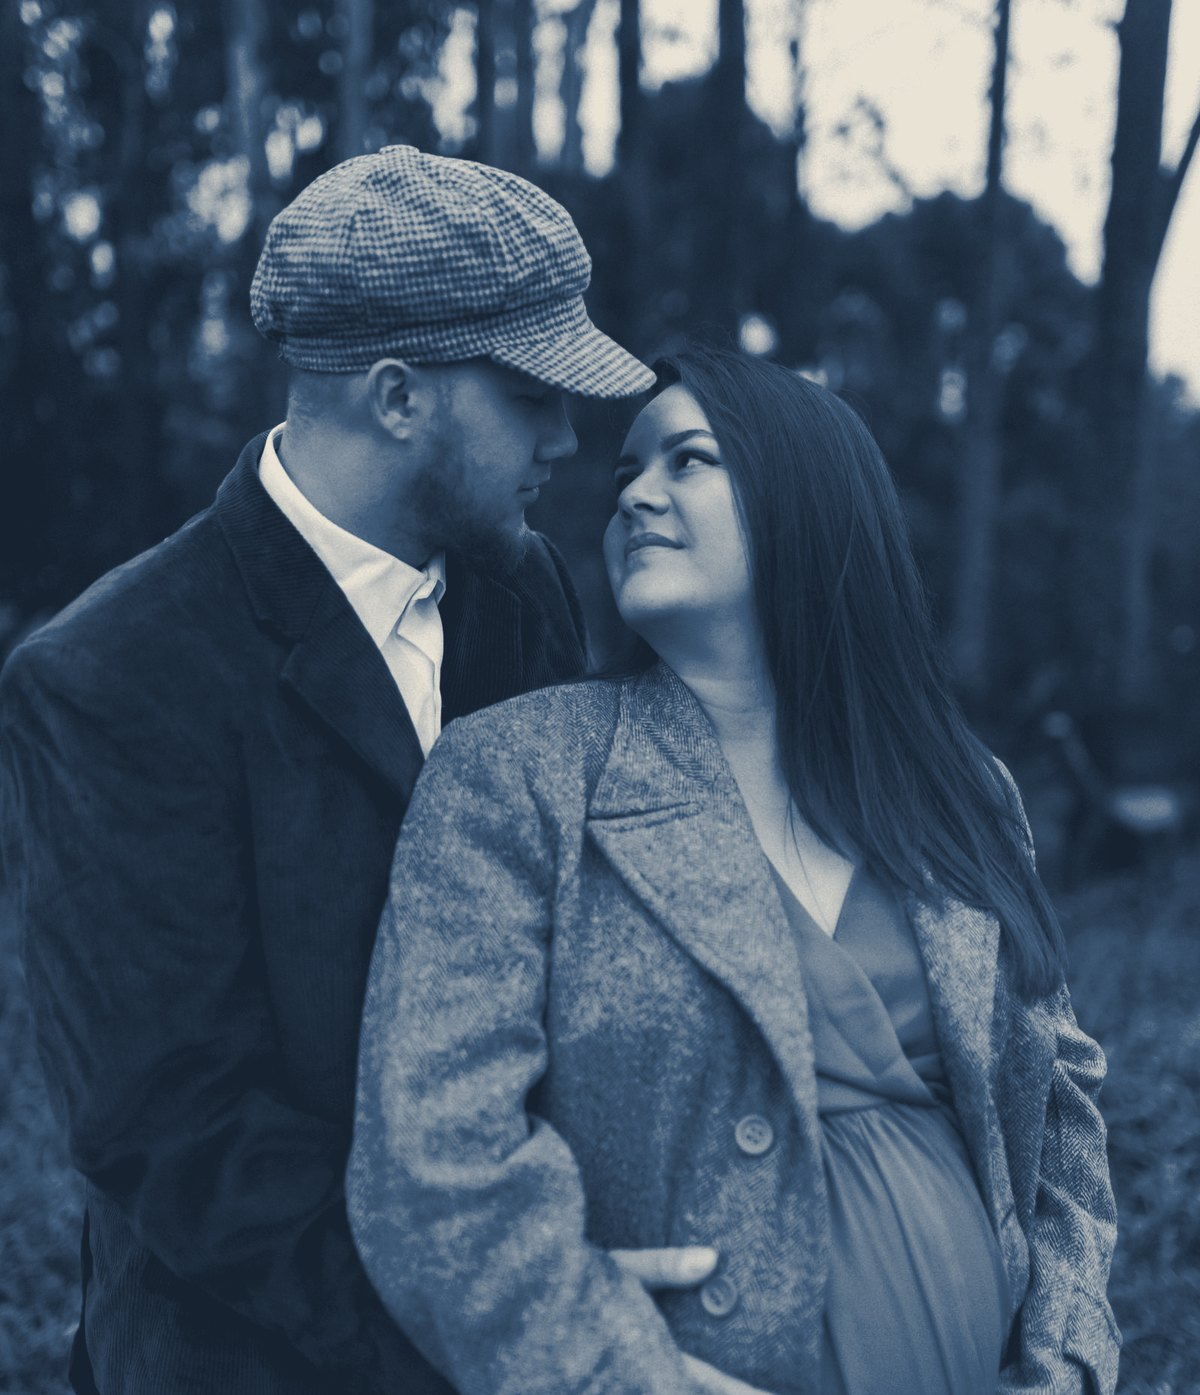
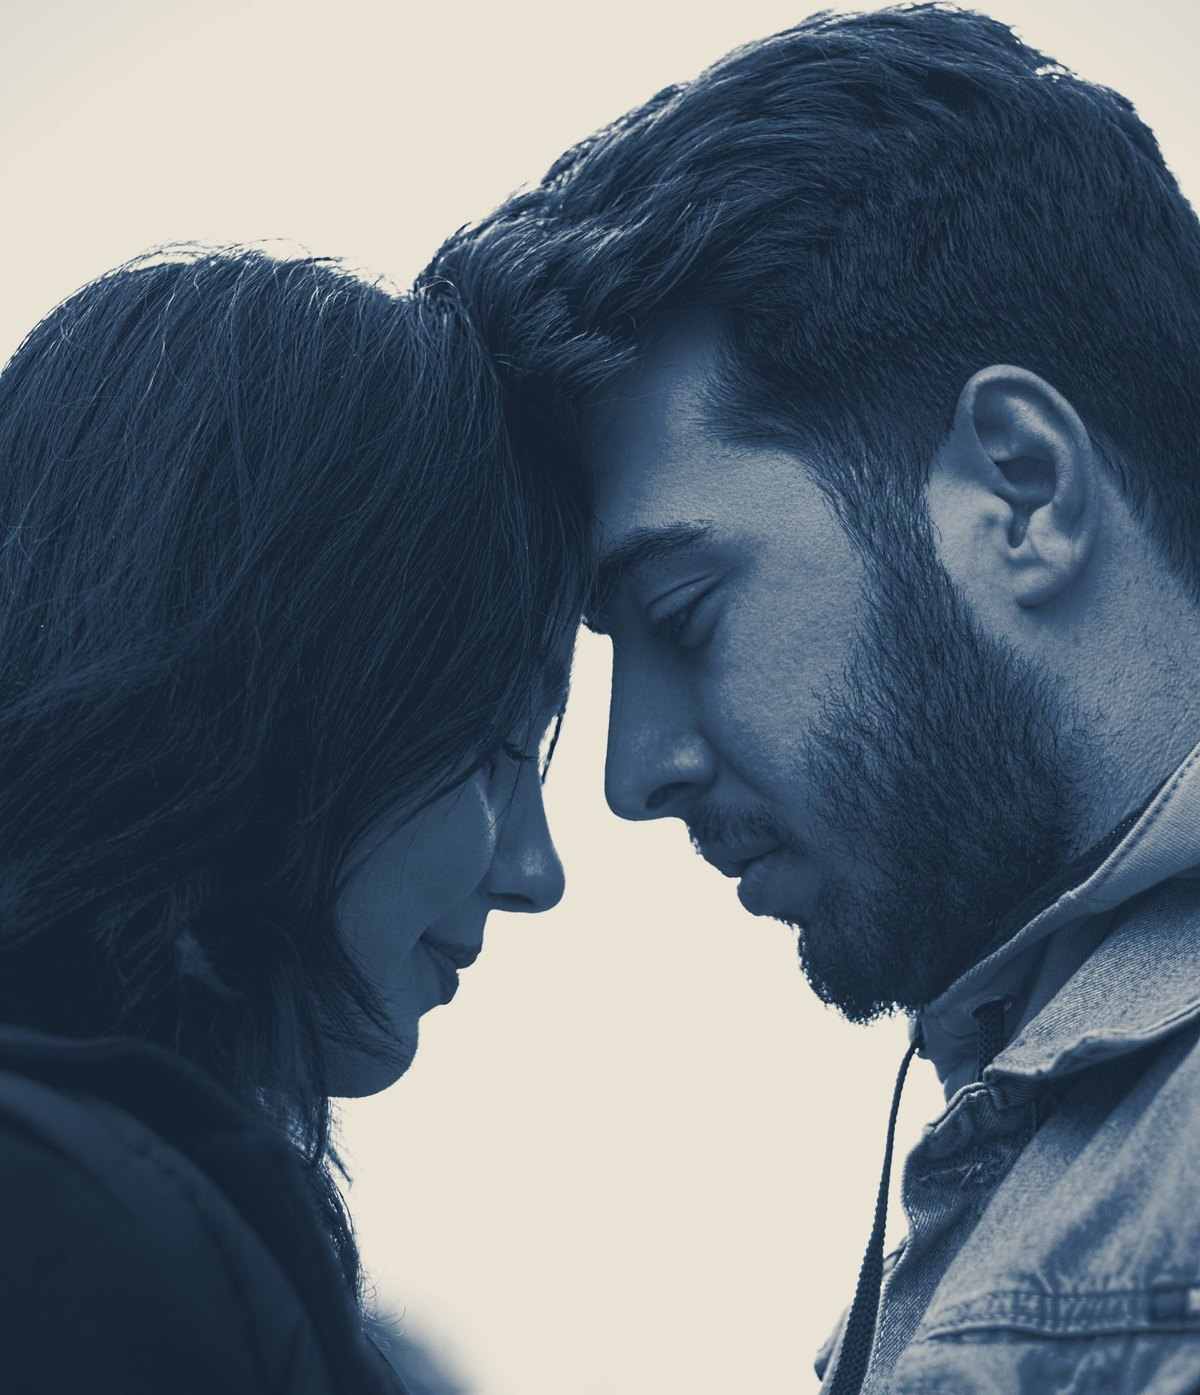
Swap About image to forehead-together couple (no hat)

diff --git a/index.html b/index.html
@@ -126,7 +126,7 @@
 <section class="section wrap" id="about">
   <div class="about__grid">
     <div class="about__media reveal">
-      <div class="about__media-inner"><img src="assets/about.jpg" alt="An expecting couple sharing a quiet, connected moment together" width="1200" height="1395" loading="lazy"></div>
+      <div class="about__media-inner"><img src="assets/about.jpg?v=2" alt="A couple resting their foreheads together in a quiet, connected moment" width="1200" height="1395" loading="lazy"></div>
     </div>
     <div class="reveal" data-d="1">
       <h2 class="display" style="margin-bottom:1.5rem">About PTP<span class="tm">™</span></h2>